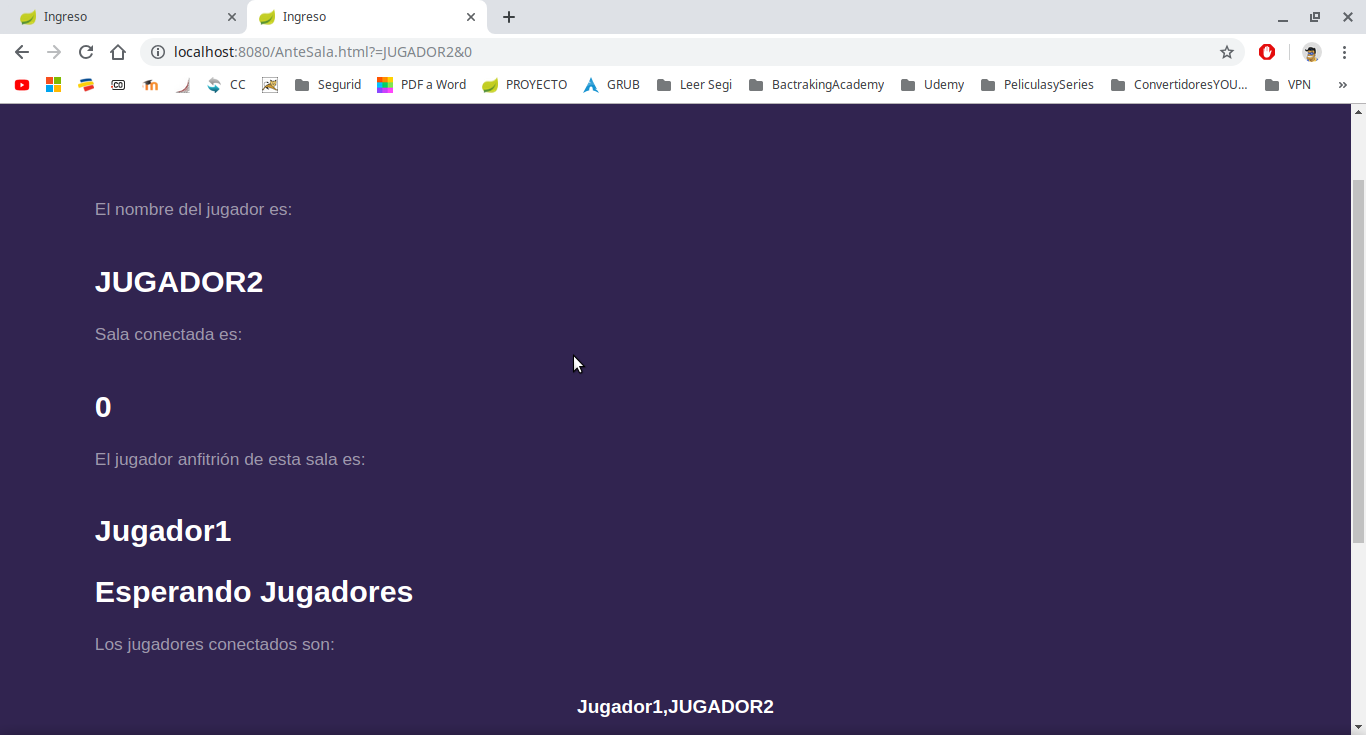
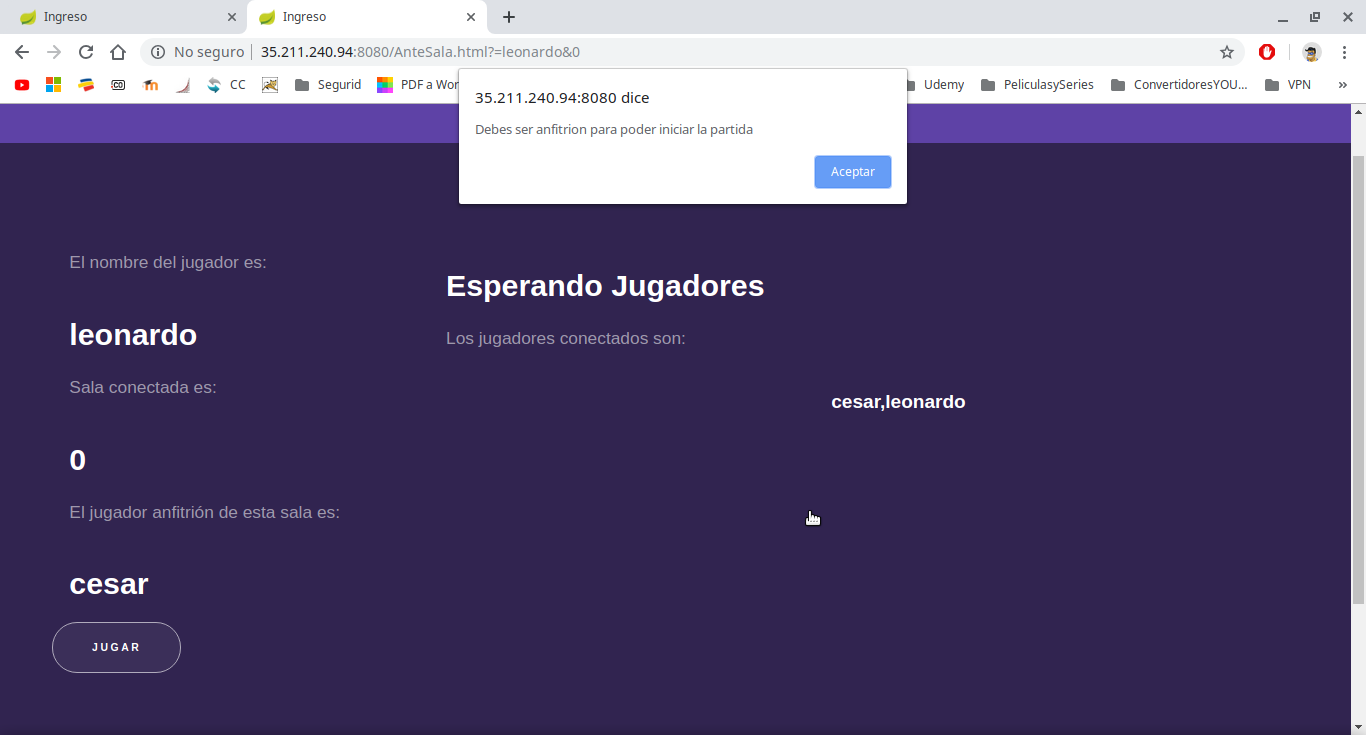
Update Readme

diff --git a/src/main/resources/static/app.js b/src/main/resources/static/app.js
@@ -53,7 +53,6 @@ var popo = (function () {
                 preguntas.get2Nivel(preguntas.getPreguntas);
                 necart(pu, tro + 1);
                 res();
-
             });
             stompClient.subscribe('/topic/cxj' + topic, function (evenbody) {
                 console.log(evenbody.body);
@@ -62,8 +61,6 @@ var popo = (function () {
             stompClient.subscribe('/topic/otro' , function (evenbody) {                
                 console.log(evenbody.body);
                 var jugadores= JSON.parse(evenbody.body);
-                //document.getElementById("pl").innerHTML = jugadores;               
-                //location.reload();
             });
             stompClient.subscribe('/topic/result' + topic, function (evenbody) {
                 var temp = document.getElementById("playerr").innerHTML;
@@ -80,22 +77,18 @@ var popo = (function () {
             console.log(error);
         });
     }
-
     function comprobarParejas() {
         var level = document.getElementById("levelGame").innerHTML;
         var playe = document.getElementById("playerr").innerHTML;
         var t = parseInt(level, 10);
         if (t == 1 && tempo.length == 8) {
             popo.sendUpLevel(level, playe);
-
         } else if (t == 2 && tempo.length == 12) {
             popo.sendUpLevel(level, playe);
-
         } else if (t == 3 && tempo.length == 10) {
             popo.sendUpLevel(level, playe);
         }
     }
-
     function sendPuntaje() {
         var jugador = document.getElementById("playerr").innerHTML;
         axios.post('/jugadores/puntaje/' + jugador + '/' + parAcert())
@@ -103,17 +96,14 @@ var popo = (function () {
                     console.log(response.data);
                 });
     }
-
     function senf() {
         return m;
     }
-
     function goSendResult() {
         sala = document.getElementById("idSala").innerHTML;
         var t = parseInt(sala, 10);
         stompClient.send("/app/result." + t, {}, JSON.stringify(""));
     }
-
     function goToResult() {
         var temp = document.getElementById("playerr").innerHTML;
         pagina = "/resultados.html";
@@ -122,12 +112,9 @@ var popo = (function () {
         pagina += "=" + temp;
         location.href = pagina;
     }
-
     function getjugcarta(){
-        return jugcarta;
-        
+        return jugcarta;       
     }
-
     function sendName() {//
         var temp = $("#name").val();
         var temp3 = temp.split(" ");
@@ -144,14 +131,12 @@ var popo = (function () {
                     pasarVariables(grouid.sala, grouid.nickName);
                 });
     }
-
     function dt(nickName, sala) {
         return{
             nickName: nickName,
             sala: sala
         }
     }
-
     function sendUpLevel(op, ppl) {
         document.getElementById('levelGame').innerHTML = op;
         sala = document.getElementById("idSala").innerHTML;
@@ -160,25 +145,19 @@ var popo = (function () {
         var f = dt(ppl, t);
         stompClient.send("/app/level." + t, {}, JSON.stringify(f));
     }
-
     function sendCart(ct, ctp) {
         var n = document.getElementById("idSala").innerHTML;
-        stompClient.send("/app/cart." + n, {}, JSON.stringify(ctp));
-        
-        
+        stompClient.send("/app/cart." + n, {}, JSON.stringify(ctp));               
     }
     function getParejas(){
-        //alert("llegamos aqui");
         var n = document.getElementById("idSala").innerHTML;
         stompClient.send("/app/cxj." + n, {}, );
         
     }
-
     function sendPareja(ct, ctp) {
         var n = document.getElementById("idSala").innerHTML;
         stompClient.send("/app/pareja." + n, {}, JSON.stringify(ctp));
     }
-
     function pasarVariables(op, nombre) {        
         var temp = nombre;
         pagina = "AnteSala.html";
@@ -187,11 +166,9 @@ var popo = (function () {
         pagina += "=" + temp + "&" + op;
         location.href = pagina;
     }
-
     function showGreeting(message) {
         $("#greetings").append("<tr><td>" + message + "</td></tr>");
     }
-
     function disconnect() {
         if (stompClient !== null) {
             stompClient.disconnect();
@@ -199,7 +176,6 @@ var popo = (function () {
         setConnected(false);
         console.log("Disconnected");
     }
-
     function setConnected(connected) {
         $("#connect").prop("disabled", connected);
         $("#disconnect").prop("disabled", !connected);
@@ -210,7 +186,6 @@ var popo = (function () {
         }
         $("#greetings").html("");
     }
-
     function getLisSalaAxios() {
         sala = document.getElementById("idSala").innerHTML;
         axios.get('/jugadores/sala/listo/' + sala)
@@ -218,7 +193,6 @@ var popo = (function () {
                     salalis = response.data;
                 });
     }
-
     var loadd = function () {
         nombreUsuario = document.getElementById("playerr").innerHTML;
         sala = document.getElementById("idSala").innerHTML;
@@ -229,7 +203,6 @@ var popo = (function () {
                 });
         return verdad;
     };
-
     var getStarted = function () {
         var n = document.getElementById("idSala").innerHTML;
         var jugador = document.getElementById("playerr").innerHTML;
@@ -239,17 +212,14 @@ var popo = (function () {
         pagina += "=" + jugador + "&" + n;
         location.href = pagina;
     };
-
     function isAnfitrion3(contador) {
-        //alert("ques es cont: "+contador);
-        if (contador > 1) {
+        if (contador > 2) {
             var n = document.getElementById("idSala").innerHTML;
             stompClient.send("/app/cartt." + n, {}, );
         } else {
             alert("Anfritrion, espere a que halla minimo 3  jugadores conectados.");
         }
     }
-
     function isAnfitrion2(tor, dato) {
         if (dato) {
             var n = document.getElementById("idSala").innerHTML;
@@ -265,11 +235,9 @@ var popo = (function () {
             alert("Debes ser anfitrion para poder iniciar la partida");
         }
     }
-
     function prueba() {
         isAnfitrion(isAnfitrion2);
     }
-
     function isAnfitrion(on) {
         var dato = null;
         var jugador = document.getElementById("playerr").innerHTML;

diff --git a/README.md b/README.md
@@ -21,7 +21,7 @@
 | Taiga | https://tree.taiga.io/project/cefarr-cartmode/timeline  |  
 | NinjaMock | https://ninjamock.com/s/V5J5CSx  | 
 | Javadoc | Generado en la ruta ./target/site/apidocs |
-| Documento de Arquitectura del Sistema | https://docs.google.com/document/d/11F0Fp1ypW2nHEMQML_QSK1kUFcAmPWU2Cj9ENApiAfo/edit?usp=sharing | 
+| Documento de Arquitectura del Sistema | https://drive.google.com/file/d/1Q7eTkRk0ZuE1sClnu6SufcEVbkiP3maU/view?usp=sharing | 
 | Servidor 1 | http://34.74.211.162:8080/ | 
 | Servidor 2 | http://34.73.143.202:8080/ | 
 | Balanceador de Carga | http://35.211.240.94:8080/ | 
@@ -53,38 +53,55 @@ Proximamente
 
 ---
 
-- El Anfitrion es el unico que puede iniciar la partida.
+-Como se observa Cesar ingreso a la sala de juego.
+![](img/8.png)
+
+---
+- El Anfitrion no puede iniciar la partida ya que no hay suficientes jugadores conectados.
+![](img/82.png)
+
+---
+
+- Ingreso Leonado pero el jugador Anfitrion es el unico que puede iniciar la partida (Cesar).
 
 ![](img/4.png)
 
 ---
-![](img/5.png)
-
----
--Como se observa maria ingreso a la sala de juego.
-![](img/8.png)
-
--Pero no puede iniciar la partida.
----
-![](img/9.png)
+-Como se observa Leonardo y Pepita han ingresado a la sala de juego.
+![](img/81.png)
 
 ---
 
--Al iniciar la partida puede empezar a emparejar.
-
-![](img/6.png)
+-Ya se completaron los jugadores minimos, y el Anfitrion inicia la partida.
+![](img/51.png)
 
 ---
 
-- Los jugadores pueden empezar a escoger cartas.
+-Los jugadores comienzan a jugar y se evidencia el Stomp funcionando. Ademas se 
+puede apreciar que cada jugador tiene su propio color caracteristico.
+
+![](img/92.png)
+![](img/91.png)
+
+---
+
+-Otro usuario se conecta pero ya no hace parte de la sala anteriormente creada, 
+    es agregado a una nueva sala.
+
+![](img/61.png)
+
+---
+
+- Despues los jugadores pueden ver sus resultador de manera ordenada.
 
 ![](img/7.png)
 
 ---
 
-- Proximamente
+- Los jugadores o cualquier usuario podra consultar el historial de los mejores
+  puntajes en cartMode de manera ordenada.
 
-![](img/)
+![](img/99.png)
 
 ---
 
